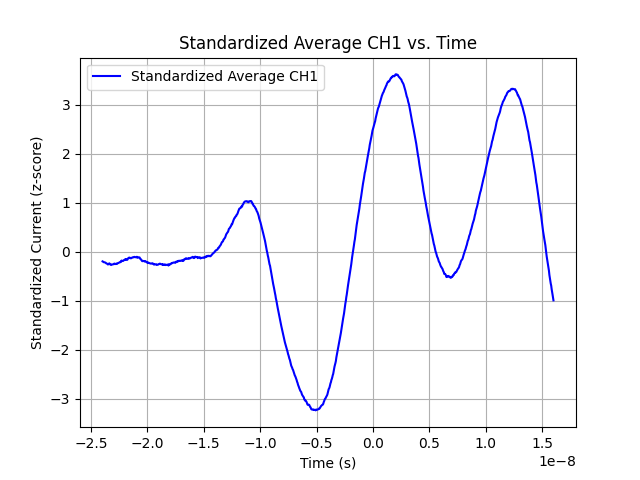
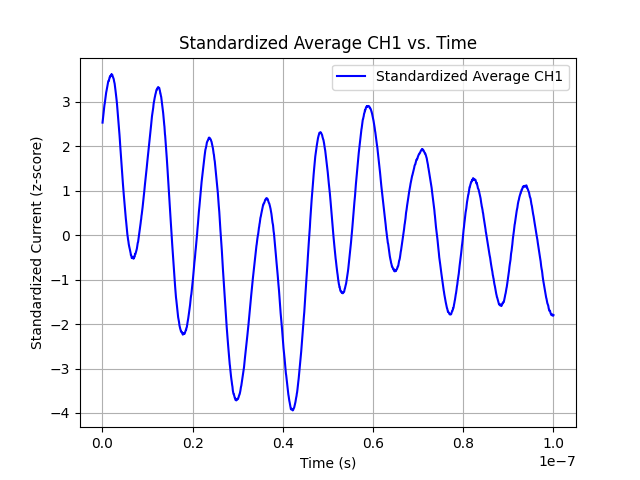
moved around some values to scope down the range

diff --git a/averagepower.py b/averagepower.py
@@ -37,8 +37,8 @@ sigma = np.std(average_ch1)
 ch1_standardized = (average_ch1 - mu) / sigma
 
 #set limit to improve visibility
-limit = 1000
-range = 1000
+limit = 1600
+range = 2500
 time = time[limit:limit + range]
 ch1_standardized = ch1_standardized[limit :limit + range]
 # Plot TIME vs. standardized average CH1
